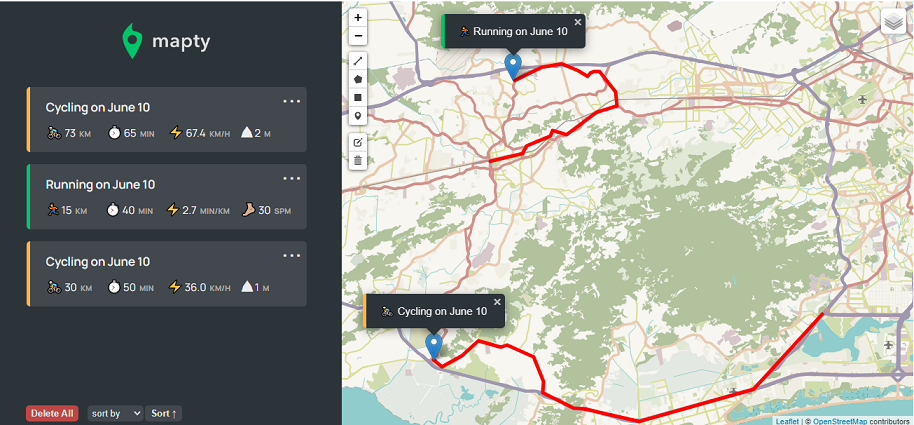
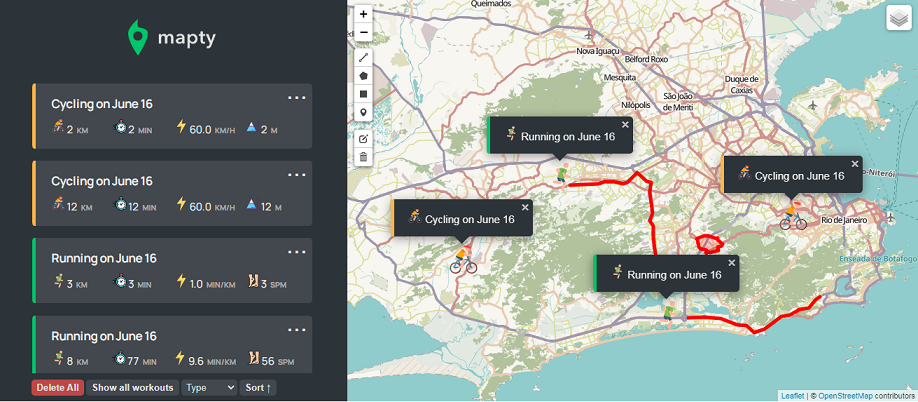
update

diff --git a/assets/js/script.js b/assets/js/script.js
@@ -682,7 +682,7 @@ class App {
         })
       )
       .setPopupContent(
-        `${workout.type === "running" ? "<img width='20' height='20' src='./assets/imgs/running.png'/>" : "<img width='20' height='20' src='./assets/imgs/cycling.png'/>"} ${workout.description}`
+        `${workout.type === "running" ? "<img class='workout__icon' src='./assets/imgs/running.png'/>" : "<img class='workout__icon' src='./assets/imgs/cycling.png'/>"} ${workout.description}`
       )
       .openPopup();
   }
@@ -703,13 +703,13 @@ class App {
         <h2 class="workout__title">${workout.description}</h2>
         <div class="workout__details">
            <span class="workout__icon">${
-             workout.type === "running" ? "<img width='20' height='20' src='./assets/imgs/running.png'/>" : "<img width='20' height='20' src='./assets/imgs/cycling.png'/>"
+             workout.type === "running" ? "<img class='workout__icon' src='./assets/imgs/running.png'/>" : "<img class='workout__icon' src='./assets/imgs/cycling.png'/>"
            }</span> 
           <span class="workout__value">${workout.distance}</span>
           <span class="workout__unit">km</span>
         </div>
         <div class="workout__details">
-          <span class="workout__icon"><img width='20' height='20' src='./assets/imgs/clock.png'/></span>
+          <span class="workout__icon"><img class='workout__icon' src='./assets/imgs/clock.png'/></span>
           <span class="workout__value">${workout.duration}</span>
           <span class="workout__unit">min</span>
         </div>
@@ -718,12 +718,12 @@ class App {
     if (workout.type === "running")
       html += `
         <div class="workout__details">
-           <span class="workout__icon"><img width='20' height='20' src='./assets/imgs/lightning.png'/></span> 
+           <span class="workout__icon"><img class='workout__icon' src='./assets/imgs/lightning.png'/></span> 
           <span class="workout__value">${workout.pace.toFixed(1)}</span>
           <span class="workout__unit">min/km</span>
         </div>
         <div class="workout__details">
-           <span class="workout__icon"><img width='20' height='20' src='./assets/imgs/feet.png'/></span> 
+           <span class="workout__icon"><img class='workout__icon' src='./assets/imgs/feet.png'/></span> 
           <span class="workout__value">${workout.cadence}</span>
           <span class="workout__unit">spm</span>
         </div>
@@ -733,12 +733,12 @@ class App {
     if (workout.type === "cycling")
       html += `
         <div class="workout__details">
-           <span class="workout__icon"><img width='20' height='20' src='./assets/imgs/lightning.png'/></span> 
+           <span class="workout__icon"><img class='workout__icon' src='./assets/imgs/lightning.png'/></span> 
           <span class="workout__value">${workout.speed.toFixed(1)}</span>
           <span class="workout__unit">km/h</span>
         </div>
         <div class="workout__details">
-          <span class="workout__icon"><img width='20' height='20' src='./assets/imgs/elevation.png'/></span>
+          <span class="workout__icon"><img class='workout__icon' src='./assets/imgs/elevation.png'/></span>
           <span class="workout__value">${workout.elevationGain}</span>
           <span class="workout__unit">m</span>
         </div>

diff --git a/assets/css/style.css b/assets/css/style.css
@@ -94,10 +94,12 @@ body {
 }
 
 .workout__icon {
-  font-size: 1.8rem;
-  margin-right: 0.2rem;
-  height: 0.28rem;
+  margin-right: 0.4rem;
+  width: 20px;
+  height: 20px;
 }
+
+
 
 .workout__value {
   font-size: 1.5rem;
